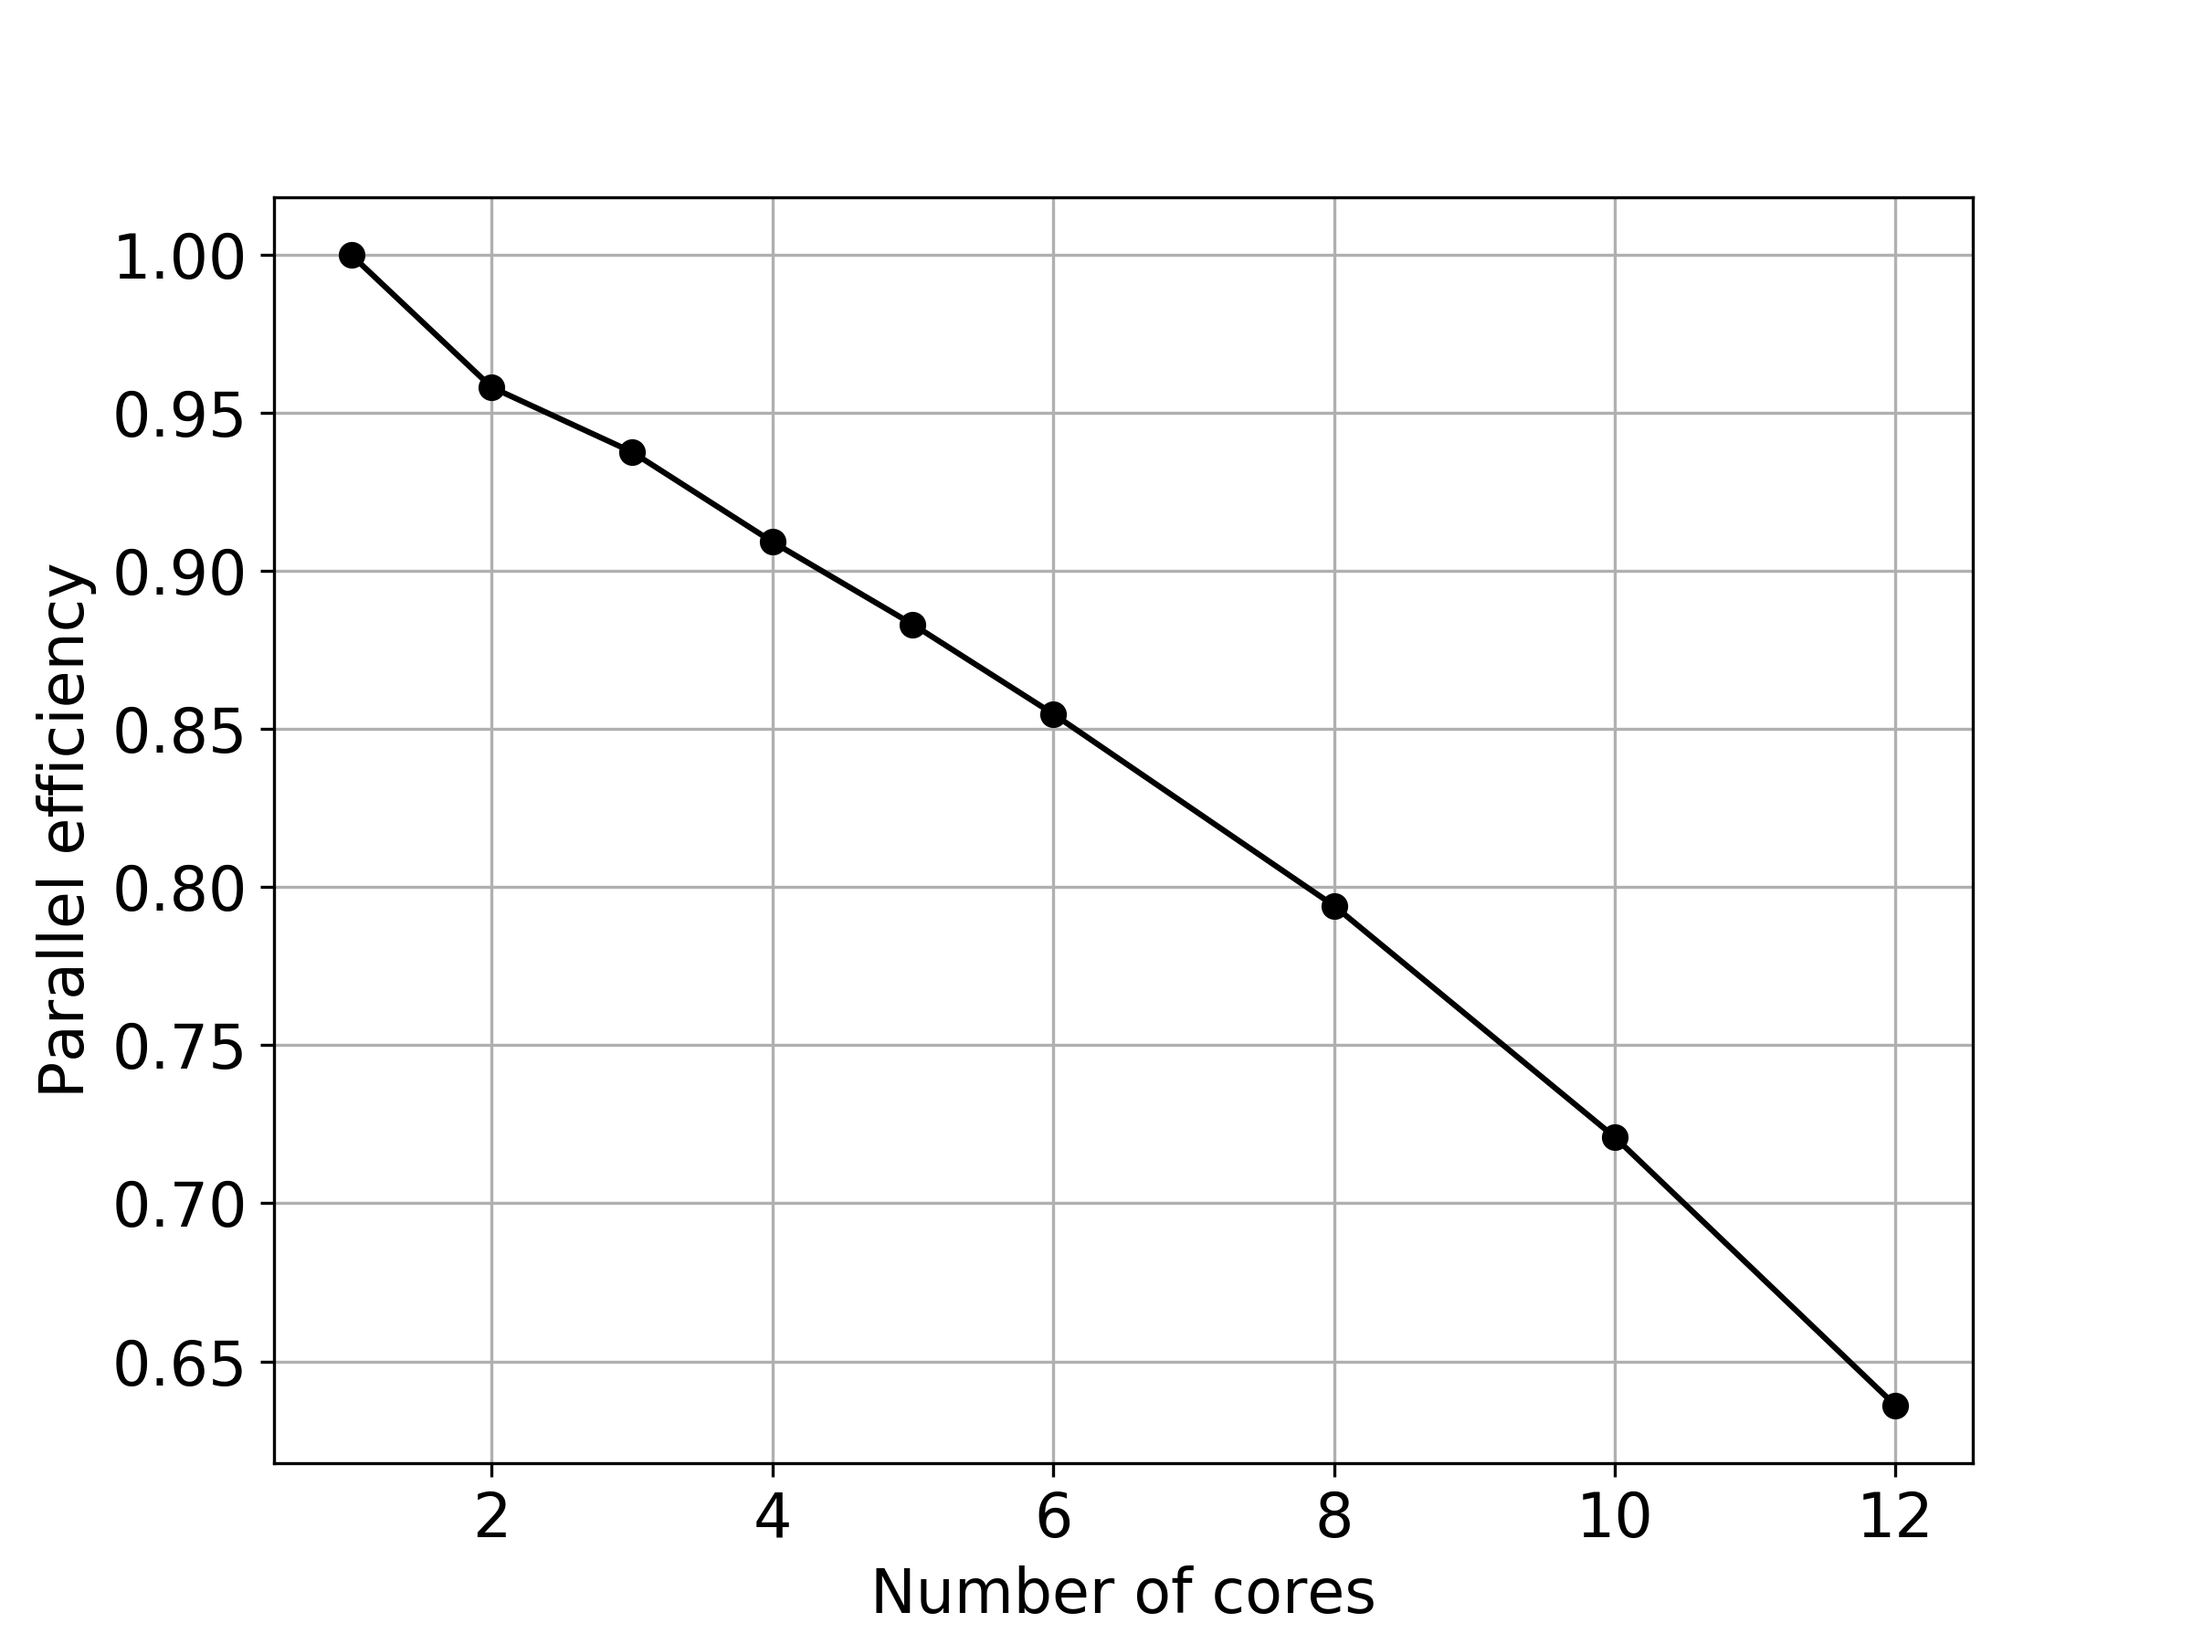
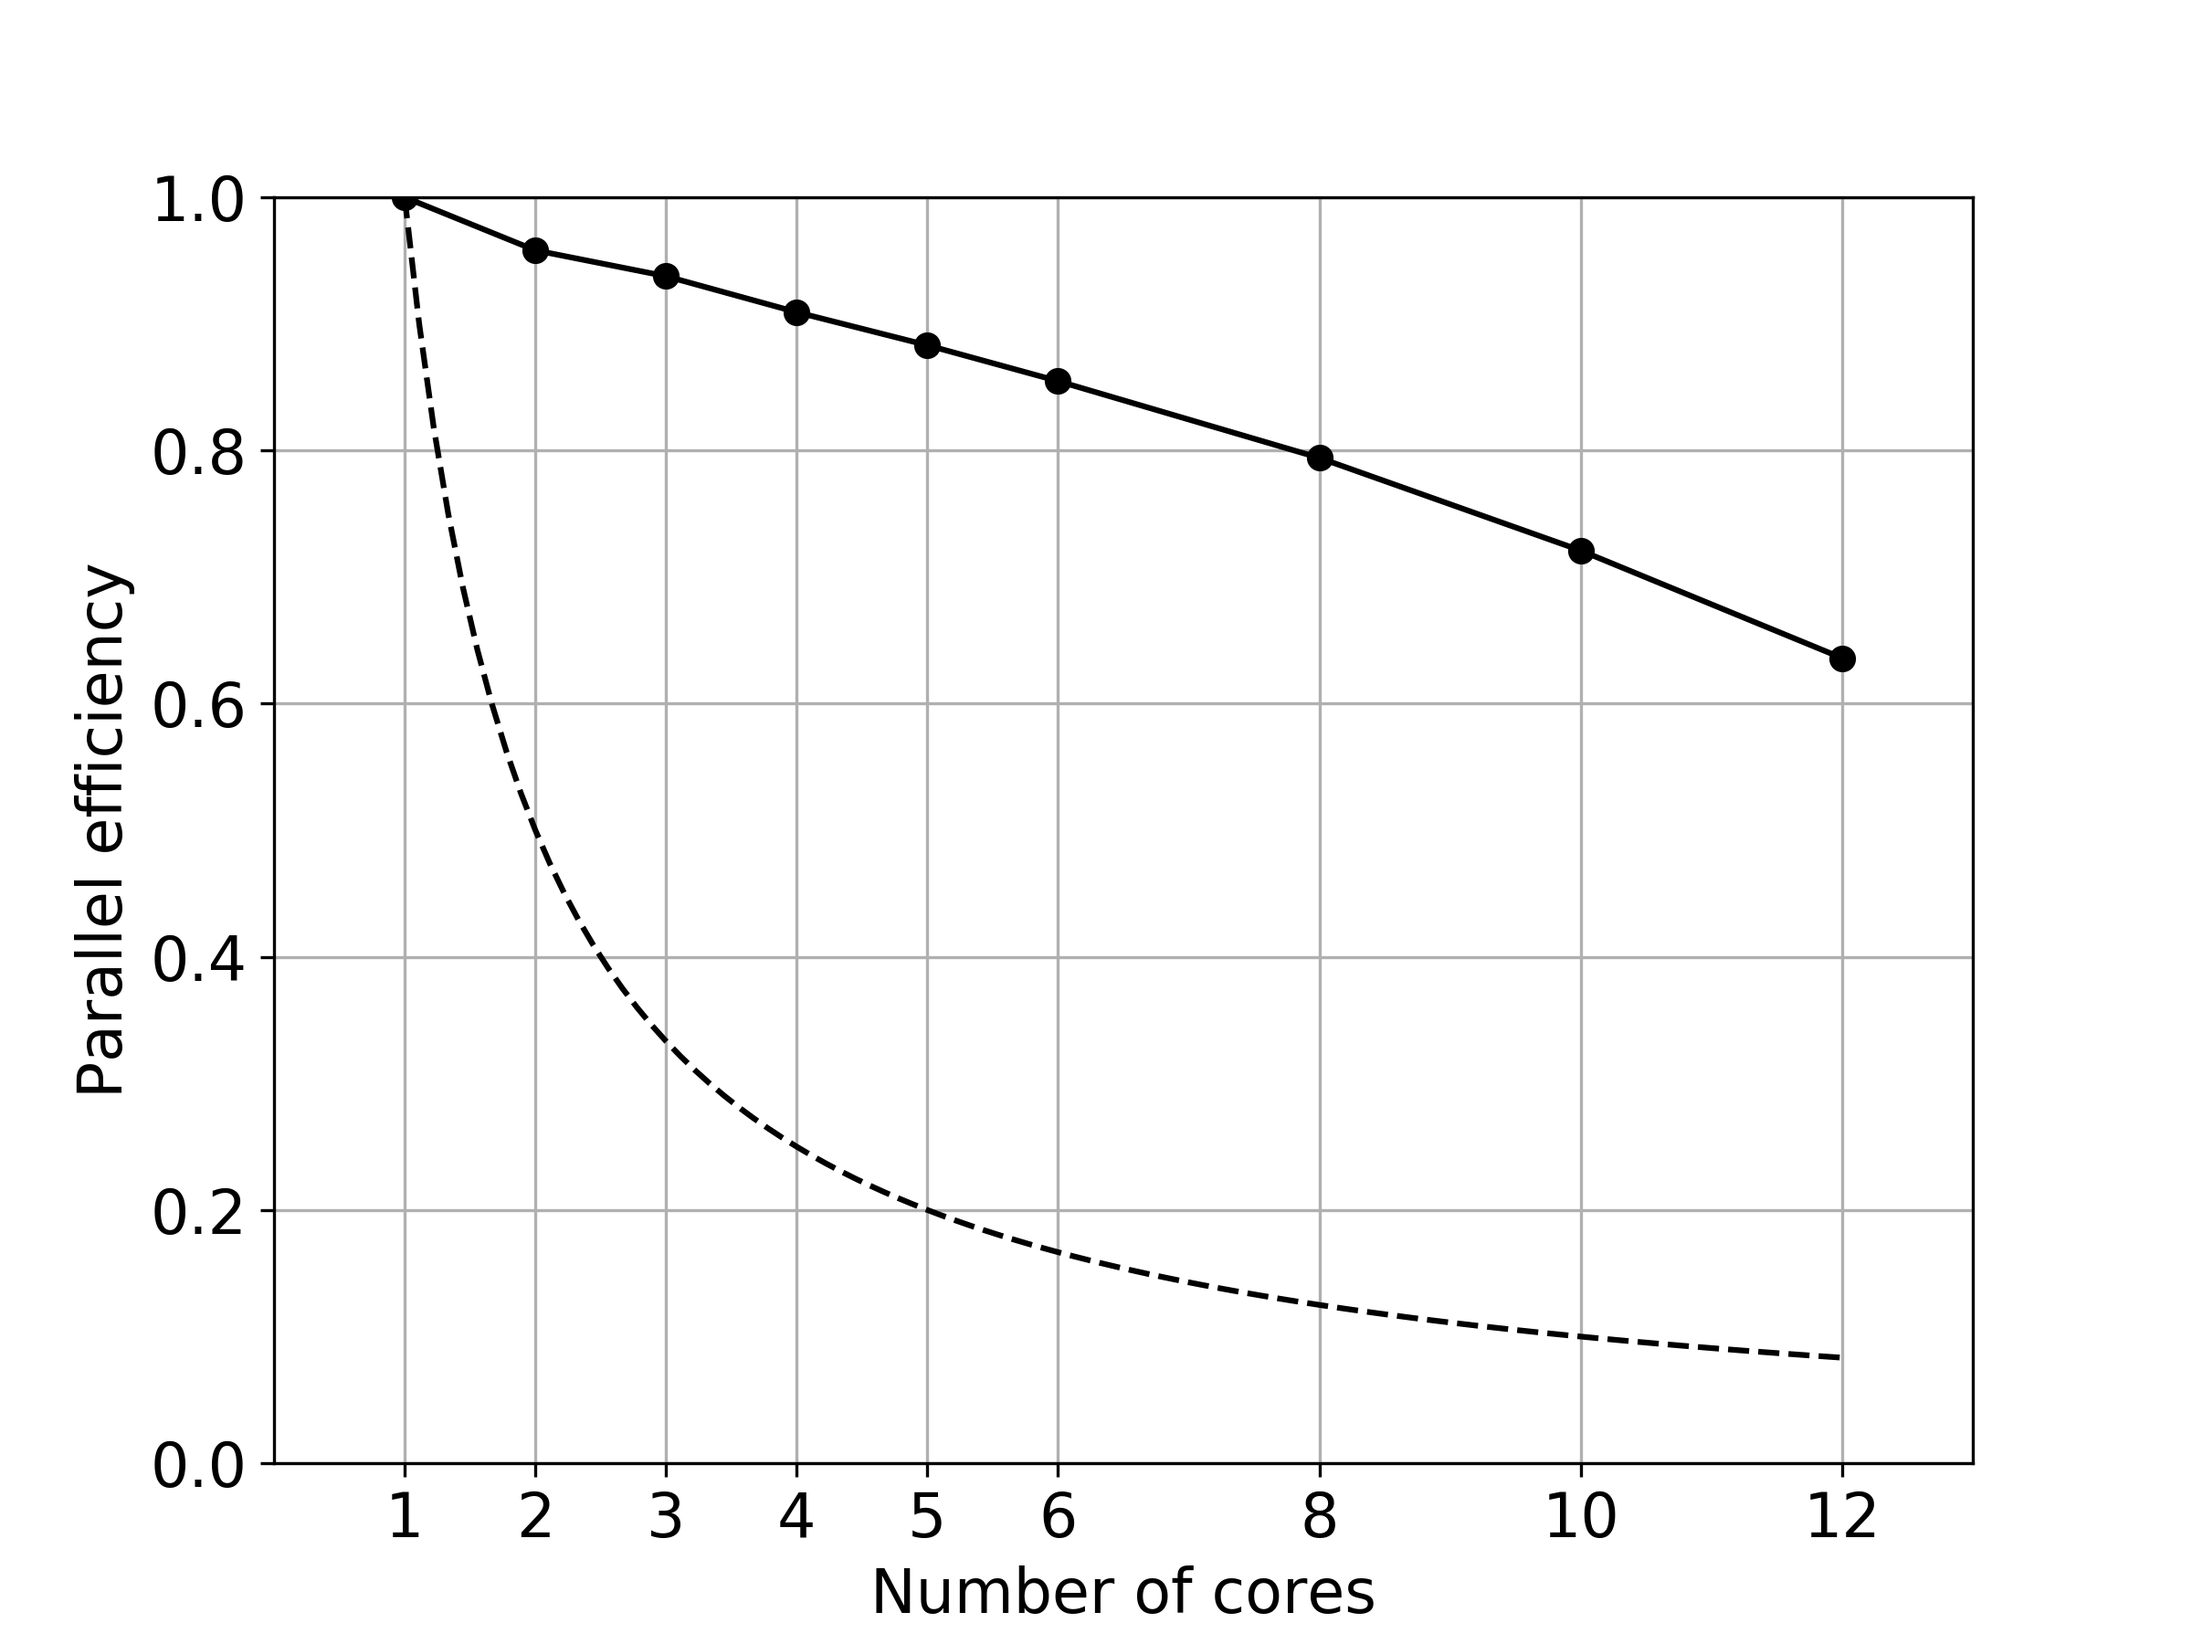
update figures 4 and 5

diff --git a/benchmark/nf-parallel-scaling/plot_parallel_scalability.py b/benchmark/nf-parallel-scaling/plot_parallel_scalability.py
@@ -23,10 +23,11 @@ for n, core in enumerate(cores):
     print(core, '%5.3f' % elapsed_mean[n], '%5.3f' % elapsed_std[n], '%5.3f' % pe[n])
 
 fig = plt.figure(figsize=(8, 6))
-ax = fig.add_subplot(111)
+ax = fig.add_subplot(111, xlim=(0, 13), ylim=(0, 13))
 ax.tick_params(which='both', labelsize=16)
 plt.plot(cores, elapsed_mean, 'k-', marker='.', ms=12)
 plt.grid()
+plt.xticks([1, 2, 3, 4, 5, 6, 8, 10, 12])
 plt.xlabel('Number of cores', fontsize=16)
 plt.ylabel('Elapsed time (s)', fontsize=16)
 plt.savefig('nf-parallel-elapsed.png', dpi=300)
@@ -34,10 +35,13 @@ plt.close(fig)
 
 
 fig = plt.figure(figsize=(8, 6))
-ax = fig.add_subplot(111)
+ax = fig.add_subplot(111, xlim=(0, 13), ylim=(0, 1))
 ax.tick_params(which='both', labelsize=16)
 plt.plot(cores, pe, 'k-', marker='.', ms=12)
+x = np.linspace(1, 12, 100)
+plt.plot(x, 1. / x , 'k--')
 plt.grid()
+plt.xticks([1, 2, 3, 4, 5, 6, 8, 10, 12])
 plt.xlabel('Number of cores', fontsize=16)
 plt.ylabel('Parallel efficiency', fontsize=16)
 plt.savefig('nf-parallel-efficiency.png', dpi=300)
